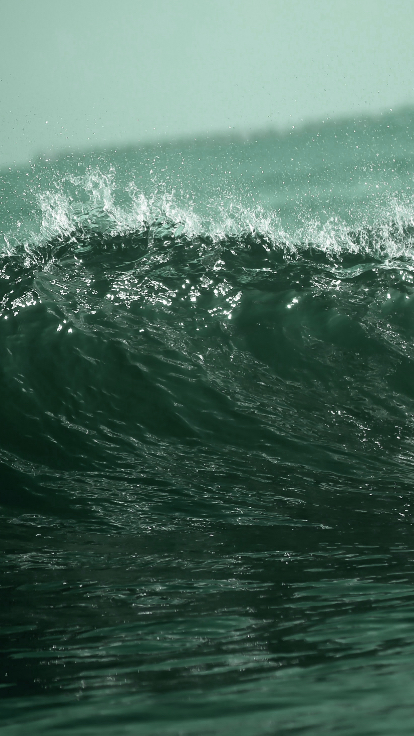
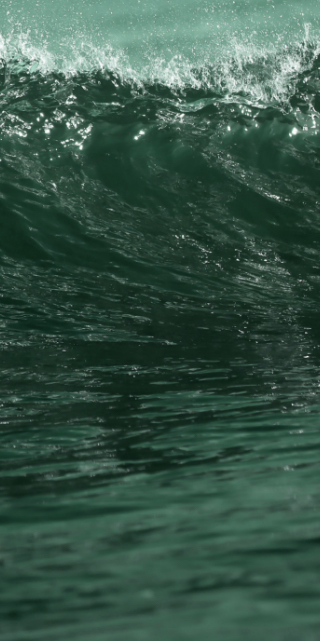
index-create

diff --git a/css/style.css b/css/style.css
@@ -19,7 +19,7 @@ body {
 }
 
 body.create {
-  background: linear-gradient(rgba(0, 0, 0, 0.25), rgba(0, 0, 0, 0.25)), url("../img/background.jpg");
+  background: linear-gradient(rgba(0, 0, 0, 0.25), rgba(0, 0, 0, 0.25)), url("../img/background@2x.jpg");
 }
 
 body.dashboard {
@@ -28,6 +28,11 @@ body.dashboard {
 
 html {
   height: 100%;
+}
+
+.container {
+  margin: auto;
+  max-width: 1500px;
 }
 
 .nomarginright {
@@ -85,14 +90,16 @@ p {
   margin-top: 0;
 }
 
-img {
-  width: 100%;
-}
-
 .logo {
   text-align: center;
-  width: 50%;
   margin: 75px auto;
+}
+
+#logo {
+  height: 100px;
+  width: auto;
+  margin-left: auto;
+  margin-right: auto;
 }
 
 input[type=submit] {
@@ -548,6 +555,11 @@ h4.white {
   display: none;
 }
 
+.box {
+  margin-left: auto;
+  margin-right: auto;
+}
+
 .col-sm-8 {
   width: 66.66%;
 }
@@ -572,6 +584,10 @@ h4.white {
   text-align: left;
 }
 
+.col-sm-12 {
+  width: 100%;
+}
+
 [class*="col-"] {
   float: left;
 }
@@ -584,19 +600,148 @@ h4.white {
 
 .warning {
   display: none;
-  position: fixed;
-  top: 100px;
-  text-align: center;
-  background-color: black;
-  opacity: 80%;
-  height: 100%;
-  width: 100%;
-  margin-top: -100px;
-  padding-top: 200px;
 }
 
-@media only screen and (min-width: 376px) {
-.warning {
+input {
   display: block;
+  margin-left: auto;
+  margin-right: auto;
 }
+
+.no-mob {
+  display: none;
 }
+
+@media only screen and (min-width: 640px) {
+  body.create {
+    background: linear-gradient(rgba(0, 0, 0, 0.5), rgba(0, 0, 0, 0.25)), url("../img/background-640@2x.jpg");
+  }
+
+  .logo {
+    margin-top: 100px;
+  }
+
+  #logo {
+    height: 150px;
+    width: auto;
+  }
+
+  .no-mob {
+    display: block;
+  }
+
+input {
+  width: 350px;
+}
+
+  .headline {
+    margin-top: 120px;
+    font-size: 1.5em;
+    max-width: 400px;
+    margin-left: auto;
+    margin-right: auto;
+  }
+
+  .buttons {
+    margin-top: 200px;
+  }
+
+  .button {
+    width: 360px;
+    height: 48px;
+    margin-top: 10px;
+    font-size: 1.5em;
+  }
+
+  #create {
+    padding-top: 12px;
+  }
+
+  #login {
+    padding-top: 12px;
+  }
+
+  .box {
+    margin-top: 200px;
+  }
+
+  .col-md-12 {
+    width: 100%;
+  }
+
+  [class*="col-"] {
+    float: left;
+  }
+
+  .row::after {
+    content: "";
+    clear: both;
+    display: table;
+  }
+
+}
+
+@media only screen and (min-width: 1024px) {
+  body.create {
+    background: linear-gradient(rgba(0, 0, 0, 0.5), rgba(0, 0, 0, 0.5)), url("../img/background-1024@2x.jpg");
+  }
+
+  .logo {
+    margin-top: 100px;
+  }
+
+  #logo {
+    max-height: 100px;
+  }
+
+  .headline {
+    margin-top: 160px;
+    margin-left: auto;
+    margin-right: auto;
+    font-size: 1.8em;
+    max-width: 500px;
+    padding: 0 15px;
+  }
+
+.no-mob {
+  margin-left: auto;
+  margin-right: auto;
+}
+
+  .box {
+    margin-top: 400px;
+  }
+
+  .buttons {
+    margin-top: 150px;
+    text-align: center;
+  }
+
+  .button {
+    width: 280px;
+  }
+
+  .index li {
+    display: inline-block;
+  }
+
+  .col-lg-6 {
+    width: 50%;
+    text-align: center;
+  }
+
+  [class*="col-"] {
+    float: left;
+  }
+
+  .row::after {
+    content: "";
+    clear: both;
+    display: table;
+  }
+}
+
+@media only screen and (min-width: 2500px) {
+  body.create {
+    background: linear-gradient(rgba(0, 0, 0, 0.5), rgba(0, 0, 0, 0.25)), url("../img/background-max@2x.jpg");
+  }

diff --git a/create-account.html b/create-account.html
@@ -13,29 +13,42 @@
 
 <body class="create">
   <main>
-    <div class="container logo">
-      <img src="img/logo.svg" alt="logo">
-    </div>
     <div class="container">
-      <h2>Create account with email</h2>
-    </div>
-    <div class="form">
-      <form action="dashboard.html">
-        <input id="email" type="email" placeholder="Email" name="email" required>
-        <input id="password" type="password" placeholder="Password" name="password" pattern="(?=.*\d)(?=.*[a-z])(?=.*[A-Z]).{8,}" required>
-        <div class="row" id="message">
-          <div class="column col-sm-6">
-            <p id="capital" class="invalid">Uppercase</p>
-            <p id="letter" class="invalid">Lowercase</p>
+      <div class="container row">
+        <div class="column col-sm-12 col-md-12 col-lg-6">
+          <div class="container logo">
+            <img id="logo" src="img/logo.svg" alt="logo">
           </div>
-          <div class="column col-sm-6">
-            <p id="length" class="invalid">Minimum 8 characters</p>
-            <p id="number" class="invalid">Number</p>
+          <div class="container headline no-mob">
+            <h1>Weather forecast for the tough.</h1>
           </div>
         </div>
-        <input type="submit" value="Create Account">
-        <!-- > <button type="submit" class="button create">Create Account</button><-->
-      </form>
+        <div class="column col-sm-12 col-md-12 col-lg-6">
+          <div class="container box">
+            <div class="container">
+              <h2>Create account with email</h2>
+            </div>
+            <div class="form">
+              <form action="dashboard.html">
+                <input id="email" type="email" placeholder="Email" name="email" required>
+                <input id="password" type="password" placeholder="Password" name="password" pattern="(?=.*\d)(?=.*[a-z])(?=.*[A-Z]).{8,}" required>
+                <div class="row" id="message">
+                  <div class="column col-sm-6">
+                    <p id="capital" class="invalid">Uppercase</p>
+                    <p id="letter" class="invalid">Lowercase</p>
+                  </div>
+                  <div class="column col-sm-6">
+                    <p id="length" class="invalid">Minimum 8 characters</p>
+                    <p id="number" class="invalid">Number</p>
+                  </div>
+                </div>
+                <input type="submit" value="Create Account">
+                <!-- > <button type="submit" class="button create">Create Account</button><-->
+              </form>
+            </div>
+          </div>
+        </div>
+      </div>
     </div>
   </main>
   <script src="js/validation.js"> </script>

diff --git a/index.html b/index.html
@@ -14,21 +14,17 @@
 <body class="create">
   <main>
       <div class="container logo">
-        <img src="img/logo.svg" alt="logo">
+        <img id="logo" src="img/logo.svg" alt="logo">
       </div>
-      <div class="container">
+      <div class="container headline">
         <h1>Weather forecast for the tough.</h1>
       </div>
       <div class="container buttons">
-        <ul>
-          <li><a href="create-account.html" class="button" id="create">Create Account</a></li>
-          <li><a href="login" class="button" id="login">Log in</a></li>
+        <ul class="index">
+          <li><a href="create-account.html" class="button index" id="create">Create Account</a></li>
+          <li><a href="login" class="button index" id="login">Log in</a></li>
         </ul>
       </div>
-
-<div class="warning">
-  <h1>Please inspect the site in mobile size (max width: 375px).</h1>
-</div>
 
   </main>
 </body>
